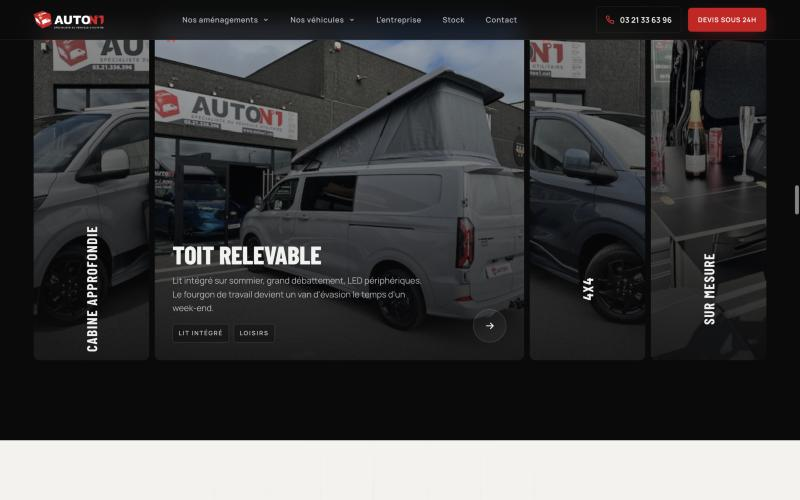
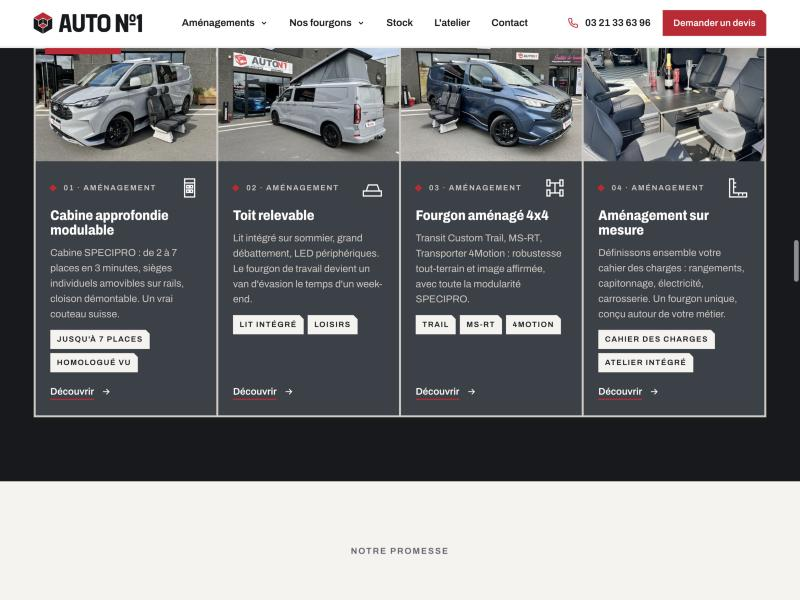
Nos aménagements : grille de quatre tuiles lisibles sans survol
Remplace l'accordéon par quatre tuiles séparées par des joints : photo
coupée à 45°, étiquette numérotée, pictogramme de la charte, titre,
description, étiquettes et lien. Deux colonnes sous 1180 px, une seule
en mobile.

diff --git a/site/index.html b/site/index.html
@@ -19,7 +19,7 @@
 <link rel="apple-touch-icon" href="assets/brand/apple-touch-icon.png">
 <link rel="preload" href="assets/fonts/Archivo-var-normal-latin.woff2" as="font" type="font/woff2" crossorigin>
 <link rel="stylesheet" href="assets/fonts/fonts.css?v=d4d25ccd">
-<link rel="stylesheet" href="assets/css/main.css?v=c119e5da">
+<link rel="stylesheet" href="assets/css/main.css?v=84c63768">
 <script type="application/ld+json">
 {
   "@context": "https://schema.org",
@@ -217,26 +217,46 @@
       <div><span class="eyebrow reveal">Nos aménagements</span><h2 class="h2 split-lines mt-1"><span class="line"><span>Quatre réponses,</span></span><span class="line"><span>un seul <span class="outline">interlocuteur.</span></span></span></h2></div>
       <p class="lead reveal">Des aménagements pour répondre à tous vos besoins, aussi bien la semaine que le week-end. Conçus et réalisés dans nos ateliers de Wimereux, sur Ford Transit Custom et Volkswagen Transporter.</p>
     </div>
-    <div class="acc reveal">
-      <a class="acc__item" href="amenagements/cabine-approfondie.html">
-        <img src="assets/img/transit-sport-gris-sieges.jpg" alt="Ford Transit Custom Sport avec sièges SPECIPRO déposés devant le showroom AUTO N°1" loading="lazy">
-        <span class="acc__num">01</span><span class="acc__vert">Cabine approfondie</span>
-        <div class="acc__body"><div><h3>Cabine approfondie modulable</h3><p>Cabine SPECIPRO : de 2 à 7 places en 3 minutes, sièges individuels amovibles sur rails, cloison démontable. Un vrai couteau suisse.</p><div class="tags"><span class="tag tag--red">Best-seller</span><span class="tag">Jusqu'à 7 places</span><span class="tag">Homologué VU</span></div></div><span class="acc__arrow"><svg viewBox="0 0 24 24" fill="none" stroke="currentColor" stroke-width="2"><path d="M5 12h14M13 6l6 6-6 6"/></svg></span></div>
+    <div class="amen">
+      <a class="amen__card reveal" href="amenagements/cabine-approfondie.html">
+        <div class="amen__media"><img src="assets/img/transit-sport-gris-sieges.jpg" alt="Ford Transit Custom Sport avec sièges SPECIPRO déposés devant le showroom AUTO N°1" loading="lazy"><span class="tag tag--red">Best-seller</span></div>
+        <div class="amen__body">
+          <div class="amen__head"><span class="eyebrow">01 · Aménagement</span><svg class="ico ico--lg"><use href="#ico-cabine"/></svg></div>
+          <h3>Cabine approfondie modulable</h3>
+          <p>Cabine SPECIPRO : de 2 à 7 places en 3 minutes, sièges individuels amovibles sur rails, cloison démontable. Un vrai couteau suisse.</p>
+          <div class="tags"><span class="tag">Jusqu'à 7 places</span><span class="tag">Homologué VU</span></div>
+          <span class="link">Découvrir <svg viewBox="0 0 24 24" fill="none" stroke="currentColor" stroke-width="2"><path d="M5 12h14M13 6l6 6-6 6"/></svg></span>
+        </div>
       </a>
-      <a class="acc__item" href="amenagements/toit-relevable.html">
-        <img src="assets/img/transit-gris-toit-relevable-ouvert.jpg" alt="Ford Transit Custom toit relevable ouvert" loading="lazy">
-        <span class="acc__num">02</span><span class="acc__vert">Toit relevable</span>
-        <div class="acc__body"><div><h3>Toit relevable</h3><p>Lit intégré sur sommier, grand débattement, LED périphériques. Le fourgon de travail devient un van d'évasion le temps d'un week-end.</p><div class="tags"><span class="tag">Lit intégré</span><span class="tag">Loisirs</span></div></div><span class="acc__arrow"><svg viewBox="0 0 24 24" fill="none" stroke="currentColor" stroke-width="2"><path d="M5 12h14M13 6l6 6-6 6"/></svg></span></div>
+      <a class="amen__card reveal reveal-d1" href="amenagements/toit-relevable.html">
+        <div class="amen__media"><img src="assets/img/transit-gris-toit-relevable-ouvert.jpg" alt="Ford Transit Custom toit relevable ouvert" loading="lazy"></div>
+        <div class="amen__body">
+          <div class="amen__head"><span class="eyebrow">02 · Aménagement</span><svg class="ico ico--lg"><use href="#ico-toit"/></svg></div>
+          <h3>Toit relevable</h3>
+          <p>Lit intégré sur sommier, grand débattement, LED périphériques. Le fourgon de travail devient un van d'évasion le temps d'un week-end.</p>
+          <div class="tags"><span class="tag">Lit intégré</span><span class="tag">Loisirs</span></div>
+          <span class="link">Découvrir <svg viewBox="0 0 24 24" fill="none" stroke="currentColor" stroke-width="2"><path d="M5 12h14M13 6l6 6-6 6"/></svg></span>
+        </div>
       </a>
-      <a class="acc__item" href="amenagements/4x4.html">
-        <img src="assets/img/transit-trail-bleu-sieges.jpg" alt="Ford Transit Custom Trail 4x4 bleu avec sièges SPECIPRO" loading="lazy">
-        <span class="acc__num">03</span><span class="acc__vert">4x4</span>
-        <div class="acc__body"><div><h3>Fourgon aménagé 4x4</h3><p>Transit Custom Trail, MS-RT, Transporter 4Motion : robustesse tout-terrain et image affirmée, avec toute la modularité SPECIPRO.</p><div class="tags"><span class="tag">Trail</span><span class="tag">MS-RT</span><span class="tag">4Motion</span></div></div><span class="acc__arrow"><svg viewBox="0 0 24 24" fill="none" stroke="currentColor" stroke-width="2"><path d="M5 12h14M13 6l6 6-6 6"/></svg></span></div>
+      <a class="amen__card reveal reveal-d2" href="amenagements/4x4.html">
+        <div class="amen__media"><img src="assets/img/transit-trail-bleu-sieges.jpg" alt="Ford Transit Custom Trail 4x4 bleu avec sièges SPECIPRO" loading="lazy"></div>
+        <div class="amen__body">
+          <div class="amen__head"><span class="eyebrow">03 · Aménagement</span><svg class="ico ico--lg"><use href="#ico-4x4"/></svg></div>
+          <h3>Fourgon aménagé 4x4</h3>
+          <p>Transit Custom Trail, MS-RT, Transporter 4Motion : robustesse tout-terrain et image affirmée, avec toute la modularité SPECIPRO.</p>
+          <div class="tags"><span class="tag">Trail</span><span class="tag">MS-RT</span><span class="tag">4Motion</span></div>
+          <span class="link">Découvrir <svg viewBox="0 0 24 24" fill="none" stroke="currentColor" stroke-width="2"><path d="M5 12h14M13 6l6 6-6 6"/></svg></span>
+        </div>
       </a>
-      <a class="acc__item" href="amenagements/sur-mesure.html">
-        <img src="assets/img/interieur-table-champagne.jpg" alt="Intérieur aménagé sur mesure avec table et sièges face à face" loading="lazy">
-        <span class="acc__num">04</span><span class="acc__vert">Sur mesure</span>
-        <div class="acc__body"><div><h3>Aménagement sur mesure</h3><p>Définissons ensemble votre cahier des charges : rangements, capitonnage, électricité, carrosserie. Un fourgon unique, conçu autour de votre métier.</p><div class="tags"><span class="tag">Cahier des charges</span><span class="tag">Atelier intégré</span></div></div><span class="acc__arrow"><svg viewBox="0 0 24 24" fill="none" stroke="currentColor" stroke-width="2"><path d="M5 12h14M13 6l6 6-6 6"/></svg></span></div>
+      <a class="amen__card reveal reveal-d3" href="amenagements/sur-mesure.html">
+        <div class="amen__media"><img src="assets/img/interieur-table-champagne.jpg" alt="Intérieur aménagé sur mesure avec table et sièges face à face" loading="lazy"></div>
+        <div class="amen__body">
+          <div class="amen__head"><span class="eyebrow">04 · Aménagement</span><svg class="ico ico--lg"><use href="#ico-sur-mesure"/></svg></div>
+          <h3>Aménagement sur mesure</h3>
+          <p>Définissons ensemble votre cahier des charges : rangements, capitonnage, électricité, carrosserie. Un fourgon unique, conçu autour de votre métier.</p>
+          <div class="tags"><span class="tag">Cahier des charges</span><span class="tag">Atelier intégré</span></div>
+          <span class="link">Découvrir <svg viewBox="0 0 24 24" fill="none" stroke="currentColor" stroke-width="2"><path d="M5 12h14M13 6l6 6-6 6"/></svg></span>
+        </div>
       </a>
     </div>
   </div>

diff --git a/src/pages/index.html b/src/pages/index.html
@@ -115,26 +115,46 @@ ogimg: transit-sport-gris-sieges.jpg
       <div><span class="eyebrow reveal">Nos aménagements</span><h2 class="h2 split-lines mt-1"><span class="line"><span>Quatre réponses,</span></span><span class="line"><span>un seul <span class="outline">interlocuteur.</span></span></span></h2></div>
       <p class="lead reveal">Des aménagements pour répondre à tous vos besoins, aussi bien la semaine que le week-end. Conçus et réalisés dans nos ateliers de Wimereux, sur Ford Transit Custom et Volkswagen Transporter.</p>
     </div>
-    <div class="acc reveal">
-      <a class="acc__item" href="amenagements/cabine-approfondie.html">
-        <img src="assets/img/transit-sport-gris-sieges.jpg" alt="Ford Transit Custom Sport avec sièges SPECIPRO déposés devant le showroom AUTO N°1" loading="lazy">
-        <span class="acc__num">01</span><span class="acc__vert">Cabine approfondie</span>
-        <div class="acc__body"><div><h3>Cabine approfondie modulable</h3><p>Cabine SPECIPRO : de 2 à 7 places en 3 minutes, sièges individuels amovibles sur rails, cloison démontable. Un vrai couteau suisse.</p><div class="tags"><span class="tag tag--red">Best-seller</span><span class="tag">Jusqu'à 7 places</span><span class="tag">Homologué VU</span></div></div><span class="acc__arrow"><svg viewBox="0 0 24 24" fill="none" stroke="currentColor" stroke-width="2"><path d="M5 12h14M13 6l6 6-6 6"/></svg></span></div>
+    <div class="amen">
+      <a class="amen__card reveal" href="amenagements/cabine-approfondie.html">
+        <div class="amen__media"><img src="assets/img/transit-sport-gris-sieges.jpg" alt="Ford Transit Custom Sport avec sièges SPECIPRO déposés devant le showroom AUTO N°1" loading="lazy"><span class="tag tag--red">Best-seller</span></div>
+        <div class="amen__body">
+          <div class="amen__head"><span class="eyebrow">01 · Aménagement</span><svg class="ico ico--lg"><use href="#ico-cabine"/></svg></div>
+          <h3>Cabine approfondie modulable</h3>
+          <p>Cabine SPECIPRO : de 2 à 7 places en 3 minutes, sièges individuels amovibles sur rails, cloison démontable. Un vrai couteau suisse.</p>
+          <div class="tags"><span class="tag">Jusqu'à 7 places</span><span class="tag">Homologué VU</span></div>
+          <span class="link">Découvrir <svg viewBox="0 0 24 24" fill="none" stroke="currentColor" stroke-width="2"><path d="M5 12h14M13 6l6 6-6 6"/></svg></span>
+        </div>
       </a>
-      <a class="acc__item" href="amenagements/toit-relevable.html">
-        <img src="assets/img/transit-gris-toit-relevable-ouvert.jpg" alt="Ford Transit Custom toit relevable ouvert" loading="lazy">
-        <span class="acc__num">02</span><span class="acc__vert">Toit relevable</span>
-        <div class="acc__body"><div><h3>Toit relevable</h3><p>Lit intégré sur sommier, grand débattement, LED périphériques. Le fourgon de travail devient un van d'évasion le temps d'un week-end.</p><div class="tags"><span class="tag">Lit intégré</span><span class="tag">Loisirs</span></div></div><span class="acc__arrow"><svg viewBox="0 0 24 24" fill="none" stroke="currentColor" stroke-width="2"><path d="M5 12h14M13 6l6 6-6 6"/></svg></span></div>
+      <a class="amen__card reveal reveal-d1" href="amenagements/toit-relevable.html">
+        <div class="amen__media"><img src="assets/img/transit-gris-toit-relevable-ouvert.jpg" alt="Ford Transit Custom toit relevable ouvert" loading="lazy"></div>
+        <div class="amen__body">
+          <div class="amen__head"><span class="eyebrow">02 · Aménagement</span><svg class="ico ico--lg"><use href="#ico-toit"/></svg></div>
+          <h3>Toit relevable</h3>
+          <p>Lit intégré sur sommier, grand débattement, LED périphériques. Le fourgon de travail devient un van d'évasion le temps d'un week-end.</p>
+          <div class="tags"><span class="tag">Lit intégré</span><span class="tag">Loisirs</span></div>
+          <span class="link">Découvrir <svg viewBox="0 0 24 24" fill="none" stroke="currentColor" stroke-width="2"><path d="M5 12h14M13 6l6 6-6 6"/></svg></span>
+        </div>
       </a>
-      <a class="acc__item" href="amenagements/4x4.html">
-        <img src="assets/img/transit-trail-bleu-sieges.jpg" alt="Ford Transit Custom Trail 4x4 bleu avec sièges SPECIPRO" loading="lazy">
-        <span class="acc__num">03</span><span class="acc__vert">4x4</span>
-        <div class="acc__body"><div><h3>Fourgon aménagé 4x4</h3><p>Transit Custom Trail, MS-RT, Transporter 4Motion : robustesse tout-terrain et image affirmée, avec toute la modularité SPECIPRO.</p><div class="tags"><span class="tag">Trail</span><span class="tag">MS-RT</span><span class="tag">4Motion</span></div></div><span class="acc__arrow"><svg viewBox="0 0 24 24" fill="none" stroke="currentColor" stroke-width="2"><path d="M5 12h14M13 6l6 6-6 6"/></svg></span></div>
+      <a class="amen__card reveal reveal-d2" href="amenagements/4x4.html">
+        <div class="amen__media"><img src="assets/img/transit-trail-bleu-sieges.jpg" alt="Ford Transit Custom Trail 4x4 bleu avec sièges SPECIPRO" loading="lazy"></div>
+        <div class="amen__body">
+          <div class="amen__head"><span class="eyebrow">03 · Aménagement</span><svg class="ico ico--lg"><use href="#ico-4x4"/></svg></div>
+          <h3>Fourgon aménagé 4x4</h3>
+          <p>Transit Custom Trail, MS-RT, Transporter 4Motion : robustesse tout-terrain et image affirmée, avec toute la modularité SPECIPRO.</p>
+          <div class="tags"><span class="tag">Trail</span><span class="tag">MS-RT</span><span class="tag">4Motion</span></div>
+          <span class="link">Découvrir <svg viewBox="0 0 24 24" fill="none" stroke="currentColor" stroke-width="2"><path d="M5 12h14M13 6l6 6-6 6"/></svg></span>
+        </div>
       </a>
-      <a class="acc__item" href="amenagements/sur-mesure.html">
-        <img src="assets/img/interieur-table-champagne.jpg" alt="Intérieur aménagé sur mesure avec table et sièges face à face" loading="lazy">
-        <span class="acc__num">04</span><span class="acc__vert">Sur mesure</span>
-        <div class="acc__body"><div><h3>Aménagement sur mesure</h3><p>Définissons ensemble votre cahier des charges : rangements, capitonnage, électricité, carrosserie. Un fourgon unique, conçu autour de votre métier.</p><div class="tags"><span class="tag">Cahier des charges</span><span class="tag">Atelier intégré</span></div></div><span class="acc__arrow"><svg viewBox="0 0 24 24" fill="none" stroke="currentColor" stroke-width="2"><path d="M5 12h14M13 6l6 6-6 6"/></svg></span></div>
+      <a class="amen__card reveal reveal-d3" href="amenagements/sur-mesure.html">
+        <div class="amen__media"><img src="assets/img/interieur-table-champagne.jpg" alt="Intérieur aménagé sur mesure avec table et sièges face à face" loading="lazy"></div>
+        <div class="amen__body">
+          <div class="amen__head"><span class="eyebrow">04 · Aménagement</span><svg class="ico ico--lg"><use href="#ico-sur-mesure"/></svg></div>
+          <h3>Aménagement sur mesure</h3>
+          <p>Définissons ensemble votre cahier des charges : rangements, capitonnage, électricité, carrosserie. Un fourgon unique, conçu autour de votre métier.</p>
+          <div class="tags"><span class="tag">Cahier des charges</span><span class="tag">Atelier intégré</span></div>
+          <span class="link">Découvrir <svg viewBox="0 0 24 24" fill="none" stroke="currentColor" stroke-width="2"><path d="M5 12h14M13 6l6 6-6 6"/></svg></span>
+        </div>
       </a>
     </div>
   </div>

diff --git a/site/assets/css/main.css b/site/assets/css/main.css
@@ -738,3 +738,22 @@ input[type=range]::-webkit-slider-thumb{-webkit-appearance:none;width:20px;heigh
   .hero__plate::before{display:none}
   .hero--stage .hero__title{font-size:clamp(34px,9.6vw,46px)}
 }
+
+/* ---------- Nos aménagements : quatre tuiles lisibles sans survol ---------- */
+.amen{display:grid;grid-template-columns:repeat(4,1fr);gap:3px;background:var(--joint);padding:3px}
+.amen__card{display:flex;flex-direction:column;background:var(--graphite);color:#fff;container-type:inline-size;transition:background .3s}
+.amen__card:hover{background:#454a53}
+.amen__media{--cut:clamp(24px,12.5cqi,56px);position:relative;aspect-ratio:4/3;overflow:hidden;clip-path:polygon(0 0,calc(100% - var(--cut)) 0,100% var(--cut),100% 100%,0 100%)}
+.amen__media img{width:100%;height:100%;object-fit:cover;transition:transform 1s var(--ease)}
+.amen__card:hover .amen__media img{transform:scale(1.04)}
+.amen__media .tag{position:absolute;top:14px;left:14px}
+.amen__body{padding:22px 22px 24px;display:flex;flex-direction:column;gap:12px;flex:1}
+.amen__head{display:flex;justify-content:space-between;align-items:center;gap:12px}
+.amen__head .eyebrow{color:var(--beton);font-size:11.5px}
+.amen__head .ico{flex:0 0 36px;width:36px;height:36px}
+.amen__body h3{font-size:clamp(21px,1.7vw,25px);font-weight:800;font-stretch:85%;font-variation-settings:"wdth" 85;line-height:1.05}
+.amen__body p{color:var(--beton);font-size:15px}
+.amen__body .tags{display:flex;gap:6px;flex-wrap:wrap}
+.amen__body .link{margin-top:auto;padding-top:6px;font-size:14.5px}
+@media (max-width:1180px){.amen{grid-template-columns:1fr 1fr}}
+@media (max-width:640px){.amen{grid-template-columns:1fr}.amen__media{aspect-ratio:16/9}}

diff --git a/site/amenagements/4x4.html b/site/amenagements/4x4.html
@@ -19,7 +19,7 @@
 <link rel="apple-touch-icon" href="../assets/brand/apple-touch-icon.png">
 <link rel="preload" href="../assets/fonts/Archivo-var-normal-latin.woff2" as="font" type="font/woff2" crossorigin>
 <link rel="stylesheet" href="../assets/fonts/fonts.css?v=d4d25ccd">
-<link rel="stylesheet" href="../assets/css/main.css?v=c119e5da">
+<link rel="stylesheet" href="../assets/css/main.css?v=84c63768">
 <script type="application/ld+json">
 {
   "@context": "https://schema.org",

diff --git a/site/amenagements/cabine-approfondie.html b/site/amenagements/cabine-approfondie.html
@@ -19,7 +19,7 @@
 <link rel="apple-touch-icon" href="../assets/brand/apple-touch-icon.png">
 <link rel="preload" href="../assets/fonts/Archivo-var-normal-latin.woff2" as="font" type="font/woff2" crossorigin>
 <link rel="stylesheet" href="../assets/fonts/fonts.css?v=d4d25ccd">
-<link rel="stylesheet" href="../assets/css/main.css?v=c119e5da">
+<link rel="stylesheet" href="../assets/css/main.css?v=84c63768">
 <script type="application/ld+json">
 {
   "@context": "https://schema.org",

diff --git a/site/amenagements/sur-mesure.html b/site/amenagements/sur-mesure.html
@@ -19,7 +19,7 @@
 <link rel="apple-touch-icon" href="../assets/brand/apple-touch-icon.png">
 <link rel="preload" href="../assets/fonts/Archivo-var-normal-latin.woff2" as="font" type="font/woff2" crossorigin>
 <link rel="stylesheet" href="../assets/fonts/fonts.css?v=d4d25ccd">
-<link rel="stylesheet" href="../assets/css/main.css?v=c119e5da">
+<link rel="stylesheet" href="../assets/css/main.css?v=84c63768">
 <script type="application/ld+json">
 {
   "@context": "https://schema.org",

diff --git a/site/amenagements/toit-relevable.html b/site/amenagements/toit-relevable.html
@@ -19,7 +19,7 @@
 <link rel="apple-touch-icon" href="../assets/brand/apple-touch-icon.png">
 <link rel="preload" href="../assets/fonts/Archivo-var-normal-latin.woff2" as="font" type="font/woff2" crossorigin>
 <link rel="stylesheet" href="../assets/fonts/fonts.css?v=d4d25ccd">
-<link rel="stylesheet" href="../assets/css/main.css?v=c119e5da">
+<link rel="stylesheet" href="../assets/css/main.css?v=84c63768">
 <script type="application/ld+json">
 {
   "@context": "https://schema.org",

diff --git a/site/vehicules/ford-transit-custom-cabine-approfondie.html b/site/vehicules/ford-transit-custom-cabine-approfondie.html
@@ -19,7 +19,7 @@
 <link rel="apple-touch-icon" href="../assets/brand/apple-touch-icon.png">
 <link rel="preload" href="../assets/fonts/Archivo-var-normal-latin.woff2" as="font" type="font/woff2" crossorigin>
 <link rel="stylesheet" href="../assets/fonts/fonts.css?v=d4d25ccd">
-<link rel="stylesheet" href="../assets/css/main.css?v=c119e5da">
+<link rel="stylesheet" href="../assets/css/main.css?v=84c63768">
 <script type="application/ld+json">
 {
   "@context": "https://schema.org",

diff --git a/site/vehicules/ford-transit-custom.html b/site/vehicules/ford-transit-custom.html
@@ -19,7 +19,7 @@
 <link rel="apple-touch-icon" href="../assets/brand/apple-touch-icon.png">
 <link rel="preload" href="../assets/fonts/Archivo-var-normal-latin.woff2" as="font" type="font/woff2" crossorigin>
 <link rel="stylesheet" href="../assets/fonts/fonts.css?v=d4d25ccd">
-<link rel="stylesheet" href="../assets/css/main.css?v=c119e5da">
+<link rel="stylesheet" href="../assets/css/main.css?v=84c63768">
 <script type="application/ld+json">
 {
   "@context": "https://schema.org",

diff --git a/site/vehicules/volkswagen-transporter.html b/site/vehicules/volkswagen-transporter.html
@@ -19,7 +19,7 @@
 <link rel="apple-touch-icon" href="../assets/brand/apple-touch-icon.png">
 <link rel="preload" href="../assets/fonts/Archivo-var-normal-latin.woff2" as="font" type="font/woff2" crossorigin>
 <link rel="stylesheet" href="../assets/fonts/fonts.css?v=d4d25ccd">
-<link rel="stylesheet" href="../assets/css/main.css?v=c119e5da">
+<link rel="stylesheet" href="../assets/css/main.css?v=84c63768">
 <script type="application/ld+json">
 {
   "@context": "https://schema.org",

diff --git a/site/contact.html b/site/contact.html
@@ -19,7 +19,7 @@
 <link rel="apple-touch-icon" href="assets/brand/apple-touch-icon.png">
 <link rel="preload" href="assets/fonts/Archivo-var-normal-latin.woff2" as="font" type="font/woff2" crossorigin>
 <link rel="stylesheet" href="assets/fonts/fonts.css?v=d4d25ccd">
-<link rel="stylesheet" href="assets/css/main.css?v=c119e5da">
+<link rel="stylesheet" href="assets/css/main.css?v=84c63768">
 <script type="application/ld+json">
 {
   "@context": "https://schema.org",

diff --git a/site/entreprise.html b/site/entreprise.html
@@ -19,7 +19,7 @@
 <link rel="apple-touch-icon" href="assets/brand/apple-touch-icon.png">
 <link rel="preload" href="assets/fonts/Archivo-var-normal-latin.woff2" as="font" type="font/woff2" crossorigin>
 <link rel="stylesheet" href="assets/fonts/fonts.css?v=d4d25ccd">
-<link rel="stylesheet" href="assets/css/main.css?v=c119e5da">
+<link rel="stylesheet" href="assets/css/main.css?v=84c63768">
 <script type="application/ld+json">
 {
   "@context": "https://schema.org",
